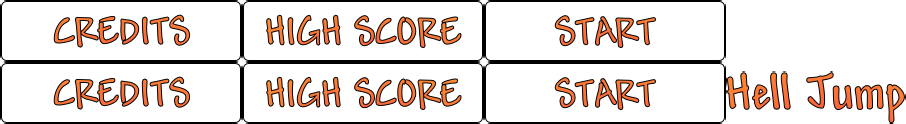
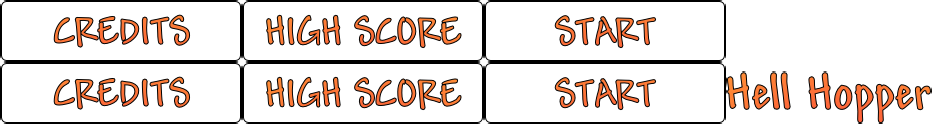
Updated app to use new (original) name Hell Hopper to avoid conflict with already existing Hell Jump game.

diff --git a/helljump-desktop/src/com/turbogerm/helljump/Main.java b/helljump-desktop/src/com/turbogerm/helljump/Main.java
@@ -11,7 +11,7 @@ import com.turbogerm.helljump.init.InitData;
 public class Main {
     public static void main(String[] args) {
         LwjglApplicationConfiguration cfg = new LwjglApplicationConfiguration();
-        cfg.title = "Hell Jump";
+        cfg.title = "Hell Hopper";
         cfg.useGL20 = true;
         cfg.height = 800;
         cfg.width = 450;
